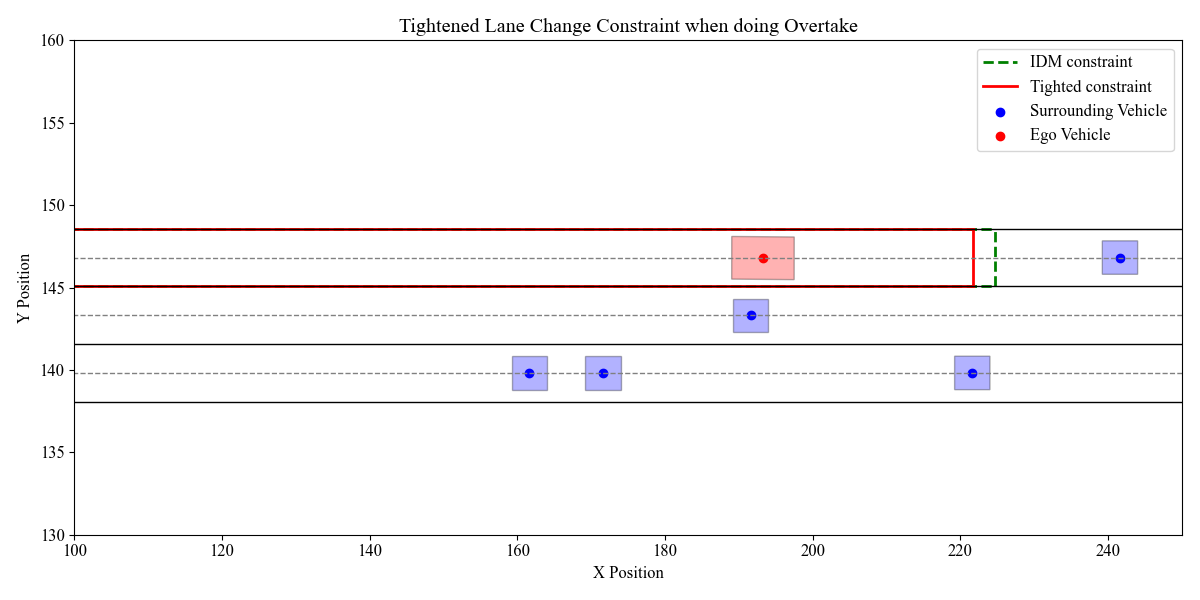
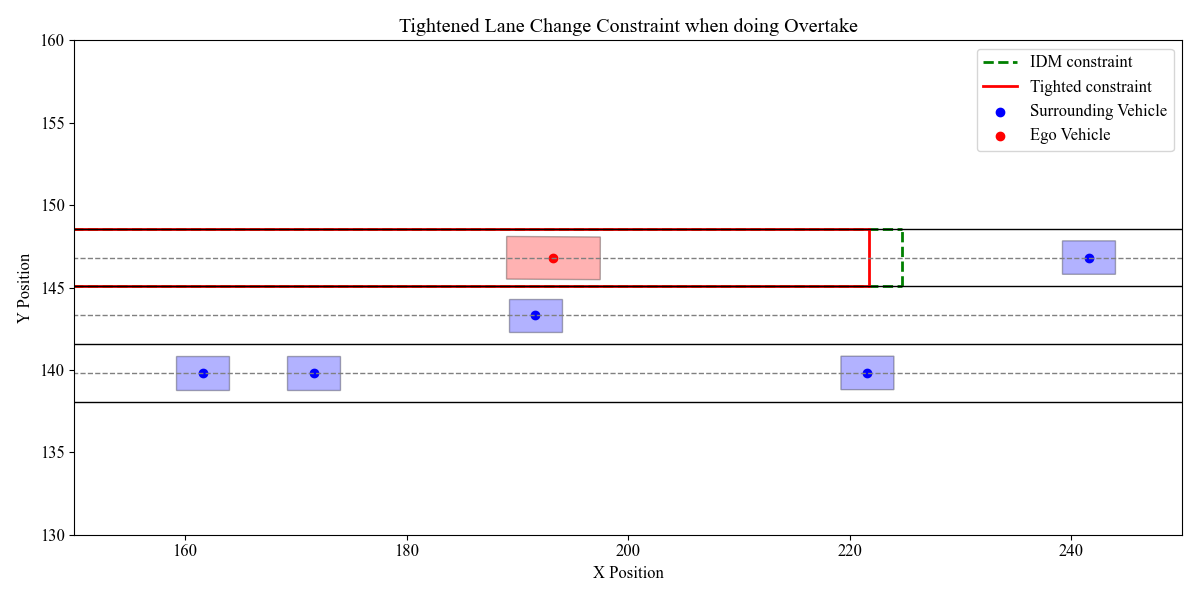
update plot

diff --git a/Mid_Term_Test/test_plotConstraint.py b/Mid_Term_Test/test_plotConstraint.py
@@ -65,8 +65,9 @@ vehicleADV.setStochasticMPCParams(P0, Q_0, possibility)
 
 
 
-# i=30
+
 i = 20
+i=30
 scenarioTrailADV = trailing(vehicleADV,N,lanes = 3,v_legal = ref_vx, laneWidth=laneWidth)
 scenarioTrailADV.slackCost(q_traffic_slack)
 scenarioADV = simpleOvertake(vehicleADV,N,lanes = 3,v_legal = ref_vx,laneWidth=laneWidth)
@@ -113,15 +114,15 @@ plt.plot([0,300], [143.318146-1.75, 143.318146-1.75], 'k', lw=1)
 plt.plot([0,300], [143.318146+1.75, 143.318146+1.75], 'k', lw=1)
 plt.plot([0,300], [143.318146-1.75-3.5, 143.318146-1.75-3.5], 'k', lw=1)
 plt.plot([0,300], [143.318146+1.75+3.5, 143.318146+1.75+3.5], 'k', lw=1)
-plt.xlim(120,210)
-plt.ylim(130, 160)
-# plt.xlim(100,250)
+# plt.xlim(120,210)
 # plt.ylim(130, 160)
+plt.xlim(150,250)
+plt.ylim(130, 160)
 plt.xlabel('X Position')
 plt.ylabel('Y Position')
 plt.tight_layout()
 plt.legend(loc='upper right')
 #! save the figure
-# plt.savefig(r'C:\Users\A490243\Desktop\Master_Thesis\Figure\Tightened_IDM.png')
-plt.savefig(r'C:\Users\A490243\Desktop\Master_Thesis\Figure\Tightened_tanh.png')
+plt.savefig(r'C:\Users\A490243\Desktop\Master_Thesis\Figure\Tightened_IDM.png')
+# plt.savefig(r'C:\Users\A490243\Desktop\Master_Thesis\Figure\Tightened_tanh.png')
 plt.show()
